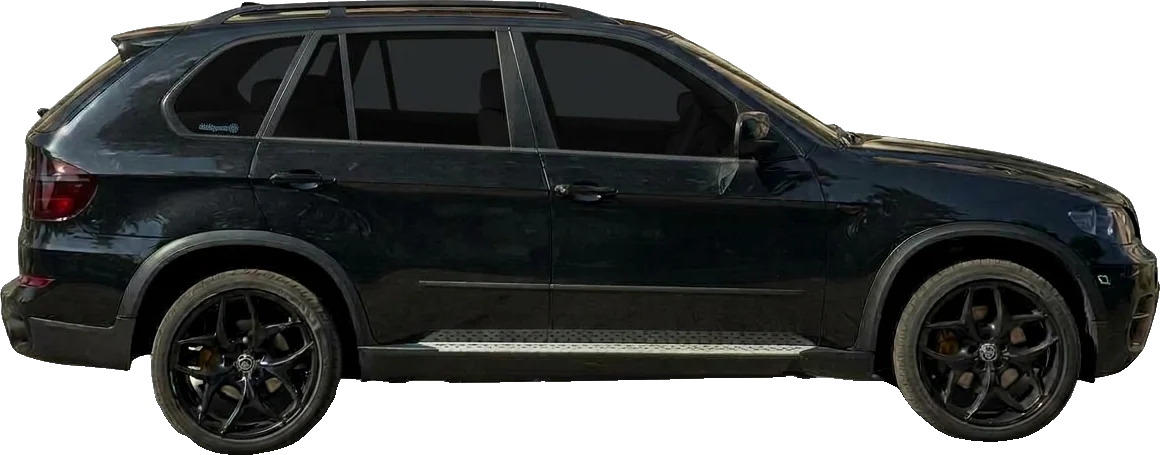
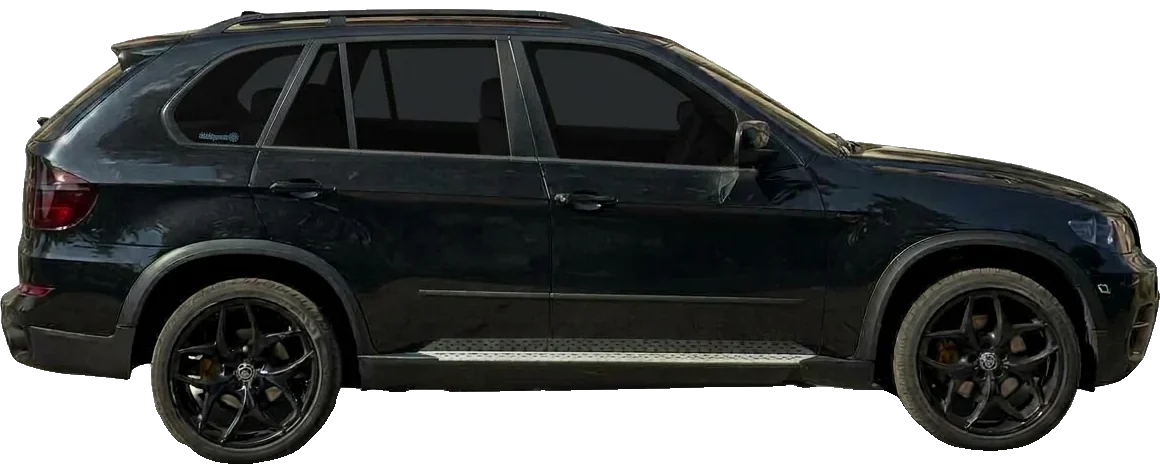
Car photos on one 2.5:1 canvas so all cars show at the same scale; taller tile art
Claude-Session: https://claude.ai/code/session_01YH73bmVKmcSwFykVt1gPrj

diff --git a/public/style.css b/public/style.css
@@ -129,7 +129,7 @@ main { padding: 0 16px; }
 }
 .car.r3, .car.r4, .car.r5 { box-shadow: 0 0 22px -8px var(--c); }
 .car.sel { outline: 2px solid var(--accent); outline-offset: -1px; }
-.car .art { height: 70px; margin: 16px 0 6px; position: relative; }
+.car .art { height: 82px; margin: 12px 0 4px; position: relative; }
 .car .nm { font: 600 15px/1.15 var(--f-disp); letter-spacing: .2px; }
 .car .meta { font-size: 11.5px; color: var(--muted); margin-top: 3px; }
 .car .tl { position: absolute; top: 8px; left: 8px; }
@@ -223,7 +223,7 @@ main { padding: 0 16px; }
 .multi { display: grid; grid-template-columns: repeat(3, minmax(0, 1fr)); gap: 8px; width: 100%; }
 .multi > div { min-width: 0; }
 .multi .car { min-height: 0; padding: 6px; width: 100%; }
-.multi .car .art { height: 50px; margin: 18px 0 2px; }
+.multi .car .art { height: 58px; margin: 14px 0 2px; }
 /* Small result tiles keep only what matters: class, NEW, picture, name, value. */
 .multi .car .tr .chip { display: none; }
 .multi .car .tl, .multi .car .tr { top: 6px; }
@@ -252,7 +252,7 @@ a.armed { color: #ff8f93 !important; }
 .carpick { display: flex; gap: 8px; overflow-x: auto; padding-bottom: 6px; scrollbar-width: none; }
 .carpick::-webkit-scrollbar { display: none; }
 .carpick .car { flex: none; width: 128px; min-height: 0; padding: 8px; }
-.carpick .car .art { height: 48px; margin: 12px 0 2px; }
+.carpick .car .art { height: 56px; margin: 10px 0 2px; }
 .rival { display: flex; align-items: center; gap: 10px; width: 100%; text-align: left; padding: 12px 14px; border-top: 1px solid var(--line); }
 .rival:first-child { border-top: 0; }
 .rival .mini { width: 84px; height: 42px; flex: none; }

diff --git a/tools/normalize_cars.py b/tools/normalize_cars.py
@@ -1,0 +1,44 @@
+"""Put every car photo on a canvas of the same shape (CANVAS_RATIO wide : 1 high), wheels on the bottom edge.
+
+Shown with object-fit: contain, all cars then come out at the same scale: same length on screen, and a tall SUV
+really looks taller than a low hypercar (instead of every car being blown up to fill its box).
+Run once over public/cars:  python -I tools/normalize_cars.py   (safe to repeat: it re-crops first).
+"""
+import os
+import sys
+from PIL import Image
+
+CANVAS_RATIO = 2.5
+ROOT = os.path.dirname(os.path.dirname(os.path.abspath(__file__)))
+OUT = os.path.join(ROOT, 'public', 'cars')
+
+
+def fit_canvas(img):
+    img = img.convert('RGBA')
+    bbox = img.getchannel('A').point(lambda v: 255 if v > 20 else 0).getbbox()
+    if bbox:
+        img = img.crop(bbox)
+    w, h = img.size
+    if w / h >= CANVAS_RATIO:
+        cw, ch = w, round(w / CANVAS_RATIO)
+    else:  # taller than the canvas (Fiat 500, big SUVs): pad the sides instead
+        cw, ch = round(h * CANVAS_RATIO), h
+    canvas = Image.new('RGBA', (cw, ch), (0, 0, 0, 0))
+    canvas.paste(img, ((cw - w) // 2, ch - h))
+    return canvas
+
+
+def main():
+    sys.stdout.reconfigure(encoding='utf-8')
+    n = 0
+    for f in sorted(os.listdir(OUT)):
+        if not f.lower().endswith('.webp'):
+            continue
+        p = os.path.join(OUT, f)
+        fit_canvas(Image.open(p)).save(p, 'WEBP', quality=86, method=6)
+        n += 1
+    print(f'Готово: {n} фото на однаковому полотні {CANVAS_RATIO}:1')
+
+
+if __name__ == '__main__':
+    main()

diff --git a/tools/prepare_cars.py b/tools/prepare_cars.py
@@ -21,6 +21,8 @@ PART_OUT = os.path.join(ROOT, 'public', 'parts')
 PART_KEYS = {'eng', 'turbo', 'exhaust', 'gearbox', 'suspension', 'wheels', 'brakes', 'body', 'motor', 'battery', 'reducer'}
 PROMPTS = os.path.join(ROOT, 'docs', 'car-prompts.txt')
 sys.stdout.reconfigure(encoding='utf-8')
+sys.path.insert(0, os.path.dirname(os.path.abspath(__file__)))
+from normalize_cars import fit_canvas  # noqa: E402
 
 
 def car_index():
@@ -136,6 +138,7 @@ def main():
             if flip:
                 cut = cut.transpose(Image.FLIP_LEFT_RIGHT)
             cut.thumbnail((1200, 600), Image.LANCZOS)
+            cut = fit_canvas(cut)
             dst = os.path.join(OUT, f'{car_id}.webp')
             cut.save(dst, 'WEBP', quality=86, method=6)
             shutil.move(os.path.join(RAW, f), os.path.join(DONE, f))
